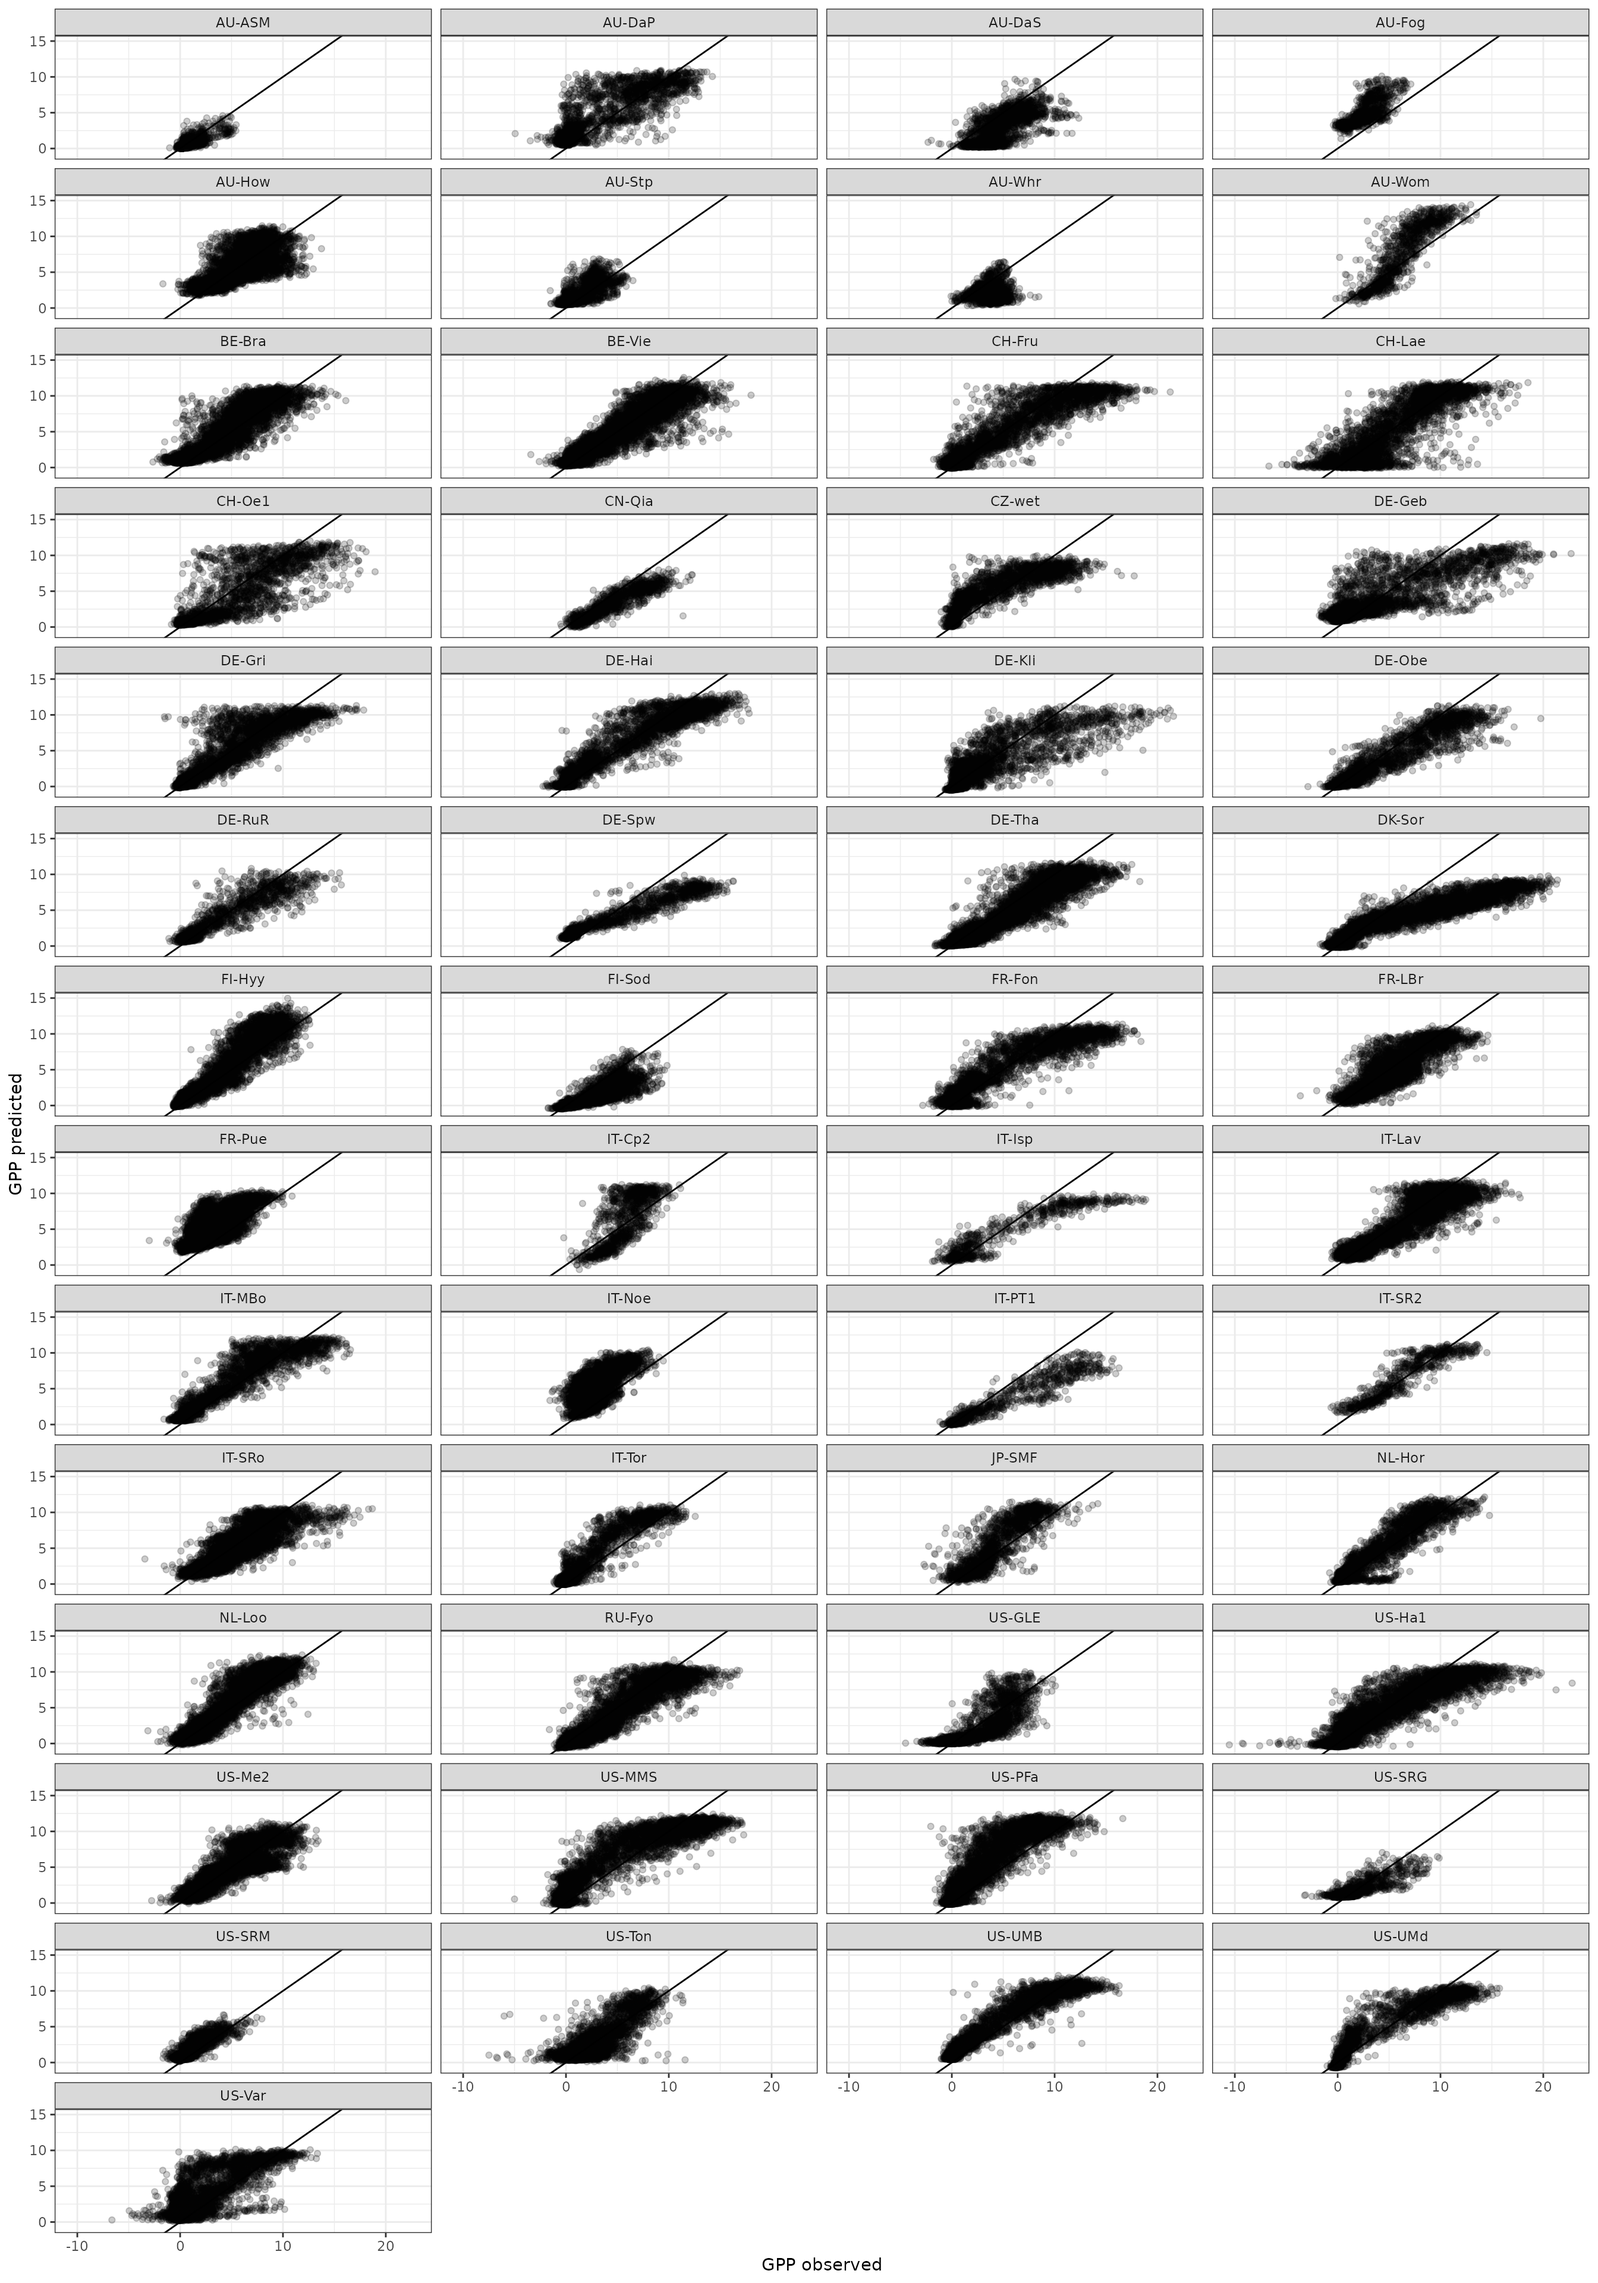
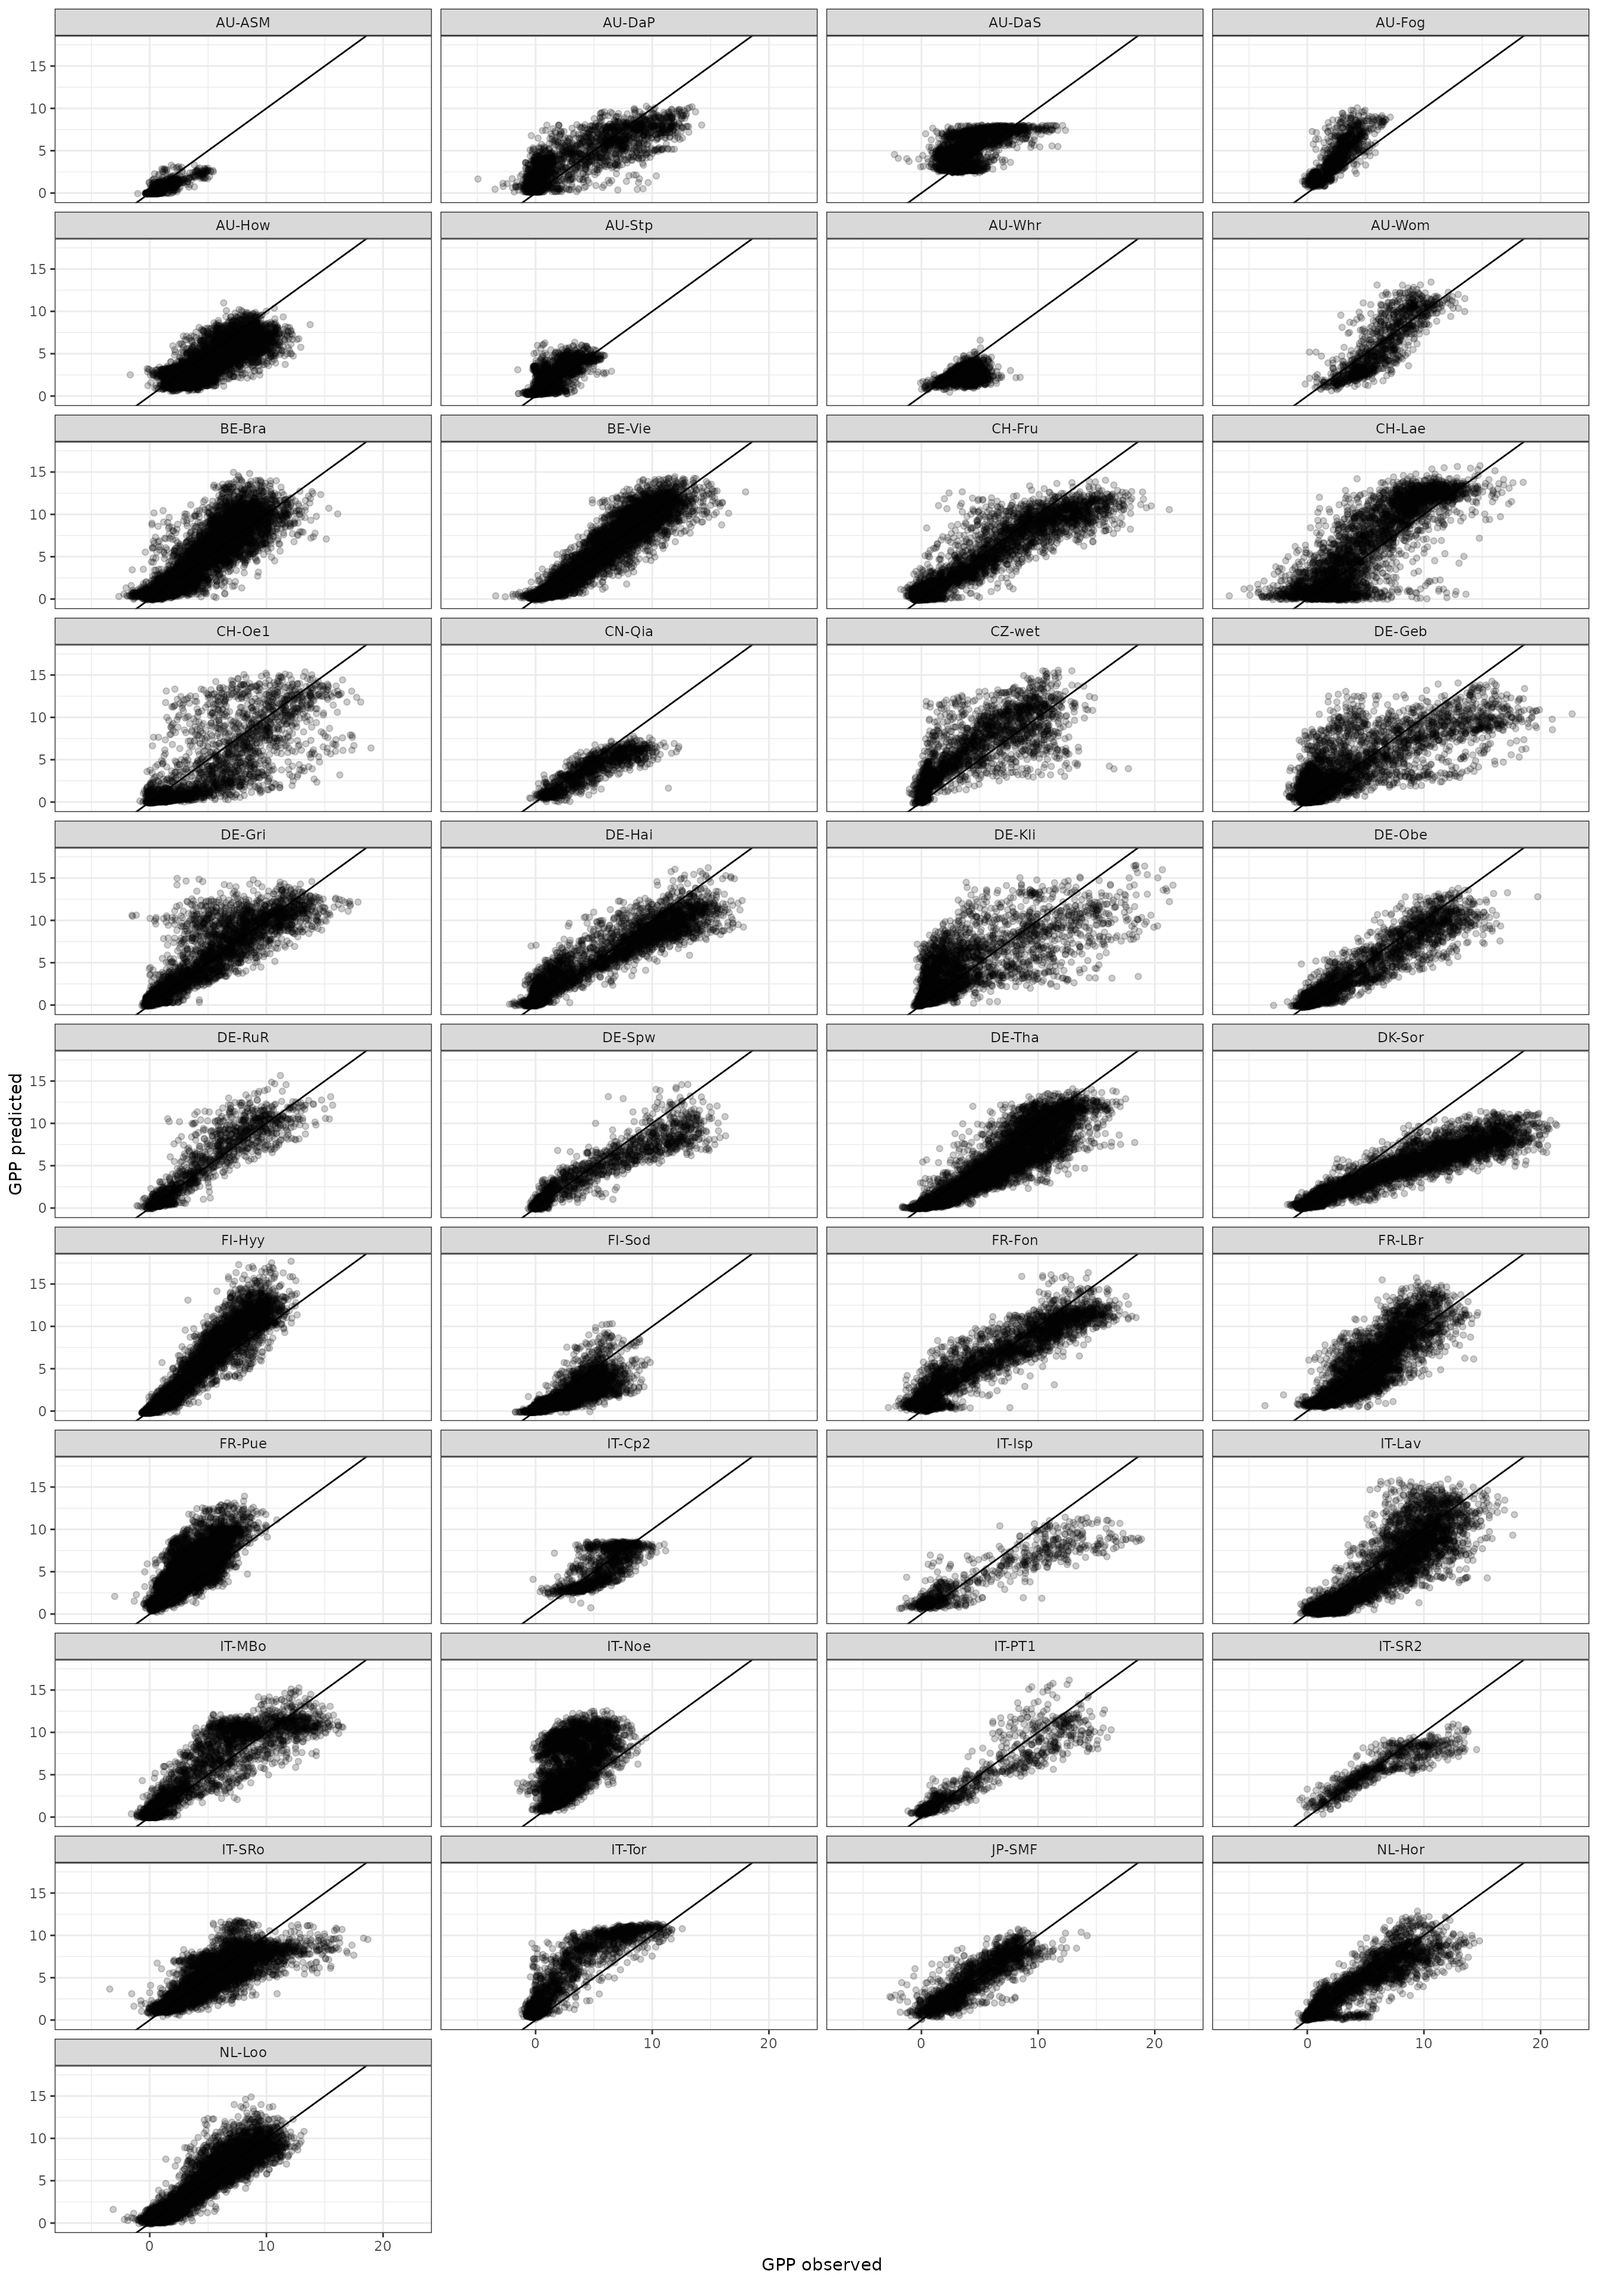
Deploying to gh-pages from @ khufkens/torching_series@0a19c062ecda8c8c551b69bda90a3b0d95c91550 🚀

diff --git a/articles/01_results.html b/articles/01_results.html
@@ -121,7 +121,7 @@ Hufkens</h4>
 <span></span>
 <span><span class="fu"><a href="https://rdrr.io/r/base/print.html" class="external-link">print</a></span><span class="op">(</span><span class="va">statistics_global</span><span class="op">)</span></span></code></pre></div>
 <pre><code><span><span class="co">##          R2     RMSE        MAE</span></span>
-<span><span class="co">## 1 0.7468109 2.002095 0.05911994</span></span></code></pre>
+<span><span class="co">## 1 0.7043553 2.183057 0.01363283</span></span></code></pre>
 <div class="sourceCode" id="cb5"><pre class="downlit sourceCode r">
 <code class="sourceCode R"><span><span class="co"># R squared and RMSE by site</span></span>
 <span><span class="va">statistics_sites</span> <span class="op">&lt;-</span> <span class="va">df</span> <span class="op">|&gt;</span></span>
@@ -133,20 +133,20 @@ Hufkens</h4>
 <span>  <span class="op">)</span></span>
 <span></span>
 <span><span class="fu"><a href="https://rdrr.io/r/base/print.html" class="external-link">print</a></span><span class="op">(</span><span class="va">statistics_sites</span><span class="op">)</span></span></code></pre></div>
-<pre><code><span><span class="co">## <span style="color: #949494;"># A tibble: 53 × 4</span></span></span>
-<span><span class="co">##    sitename     R2  RMSE    MAE</span></span>
-<span><span class="co">##    <span style="color: #949494; font-style: italic;">&lt;chr&gt;</span>     <span style="color: #949494; font-style: italic;">&lt;dbl&gt;</span> <span style="color: #949494; font-style: italic;">&lt;dbl&gt;</span>  <span style="color: #949494; font-style: italic;">&lt;dbl&gt;</span></span></span>
-<span><span class="co">## <span style="color: #BCBCBC;"> 1</span> AU-ASM   0.624  0.682 0.204 </span></span>
-<span><span class="co">## <span style="color: #BCBCBC;"> 2</span> AU-DaP   0.681  2.46  1.05  </span></span>
-<span><span class="co">## <span style="color: #BCBCBC;"> 3</span> AU-DaS   0.528  2.49  1.96  </span></span>
-<span><span class="co">## <span style="color: #BCBCBC;"> 4</span> AU-Fog   0.568  2.66  2.39  </span></span>
-<span><span class="co">## <span style="color: #BCBCBC;"> 5</span> AU-How   0.475  1.89  0.042<span style="text-decoration: underline;">8</span></span></span>
-<span><span class="co">## <span style="color: #BCBCBC;"> 6</span> AU-Stp   0.602  1.13  0.594 </span></span>
-<span><span class="co">## <span style="color: #BCBCBC;"> 7</span> AU-Whr   0.021<span style="text-decoration: underline;">3</span> 2.04  1.36  </span></span>
-<span><span class="co">## <span style="color: #BCBCBC;"> 8</span> AU-Wom   0.764  2.59  1.49  </span></span>
-<span><span class="co">## <span style="color: #BCBCBC;"> 9</span> BE-Bra   0.811  1.57  0.553 </span></span>
-<span><span class="co">## <span style="color: #BCBCBC;">10</span> BE-Vie   0.840  1.56  0.114 </span></span>
-<span><span class="co">## <span style="color: #949494;"># ℹ 43 more rows</span></span></span></code></pre>
+<pre><code><span><span class="co">## <span style="color: #949494;"># A tibble: 41 × 4</span></span></span>
+<span><span class="co">##    sitename    R2  RMSE    MAE</span></span>
+<span><span class="co">##    <span style="color: #949494; font-style: italic;">&lt;chr&gt;</span>    <span style="color: #949494; font-style: italic;">&lt;dbl&gt;</span> <span style="color: #949494; font-style: italic;">&lt;dbl&gt;</span>  <span style="color: #949494; font-style: italic;">&lt;dbl&gt;</span></span></span>
+<span><span class="co">## <span style="color: #BCBCBC;"> 1</span> AU-ASM   0.691 0.720 0.376 </span></span>
+<span><span class="co">## <span style="color: #BCBCBC;"> 2</span> AU-DaP   0.692 2.26  0.346 </span></span>
+<span><span class="co">## <span style="color: #BCBCBC;"> 3</span> AU-DaS   0.412 1.87  0.834 </span></span>
+<span><span class="co">## <span style="color: #BCBCBC;"> 4</span> AU-Fog   0.678 2.20  1.70  </span></span>
+<span><span class="co">## <span style="color: #BCBCBC;"> 5</span> AU-How   0.552 1.98  1.09  </span></span>
+<span><span class="co">## <span style="color: #BCBCBC;"> 6</span> AU-Stp   0.648 1.11  0.543 </span></span>
+<span><span class="co">## <span style="color: #BCBCBC;"> 7</span> AU-Whr   0.135 1.65  1.14  </span></span>
+<span><span class="co">## <span style="color: #BCBCBC;"> 8</span> AU-Wom   0.690 1.88  0.185 </span></span>
+<span><span class="co">## <span style="color: #BCBCBC;"> 9</span> BE-Bra   0.771 1.80  0.358 </span></span>
+<span><span class="co">## <span style="color: #BCBCBC;">10</span> BE-Vie   0.889 1.35  0.023<span style="text-decoration: underline;">5</span></span></span>
+<span><span class="co">## <span style="color: #949494;"># ℹ 31 more rows</span></span></span></code></pre>
 <p><img src="01_results_files/figure-html/unnamed-chunk-3-1.png" width="1344"></p>
 <p><img src="01_results_files/figure-html/unnamed-chunk-4-1.png" width="1344"></p>
   </div>
